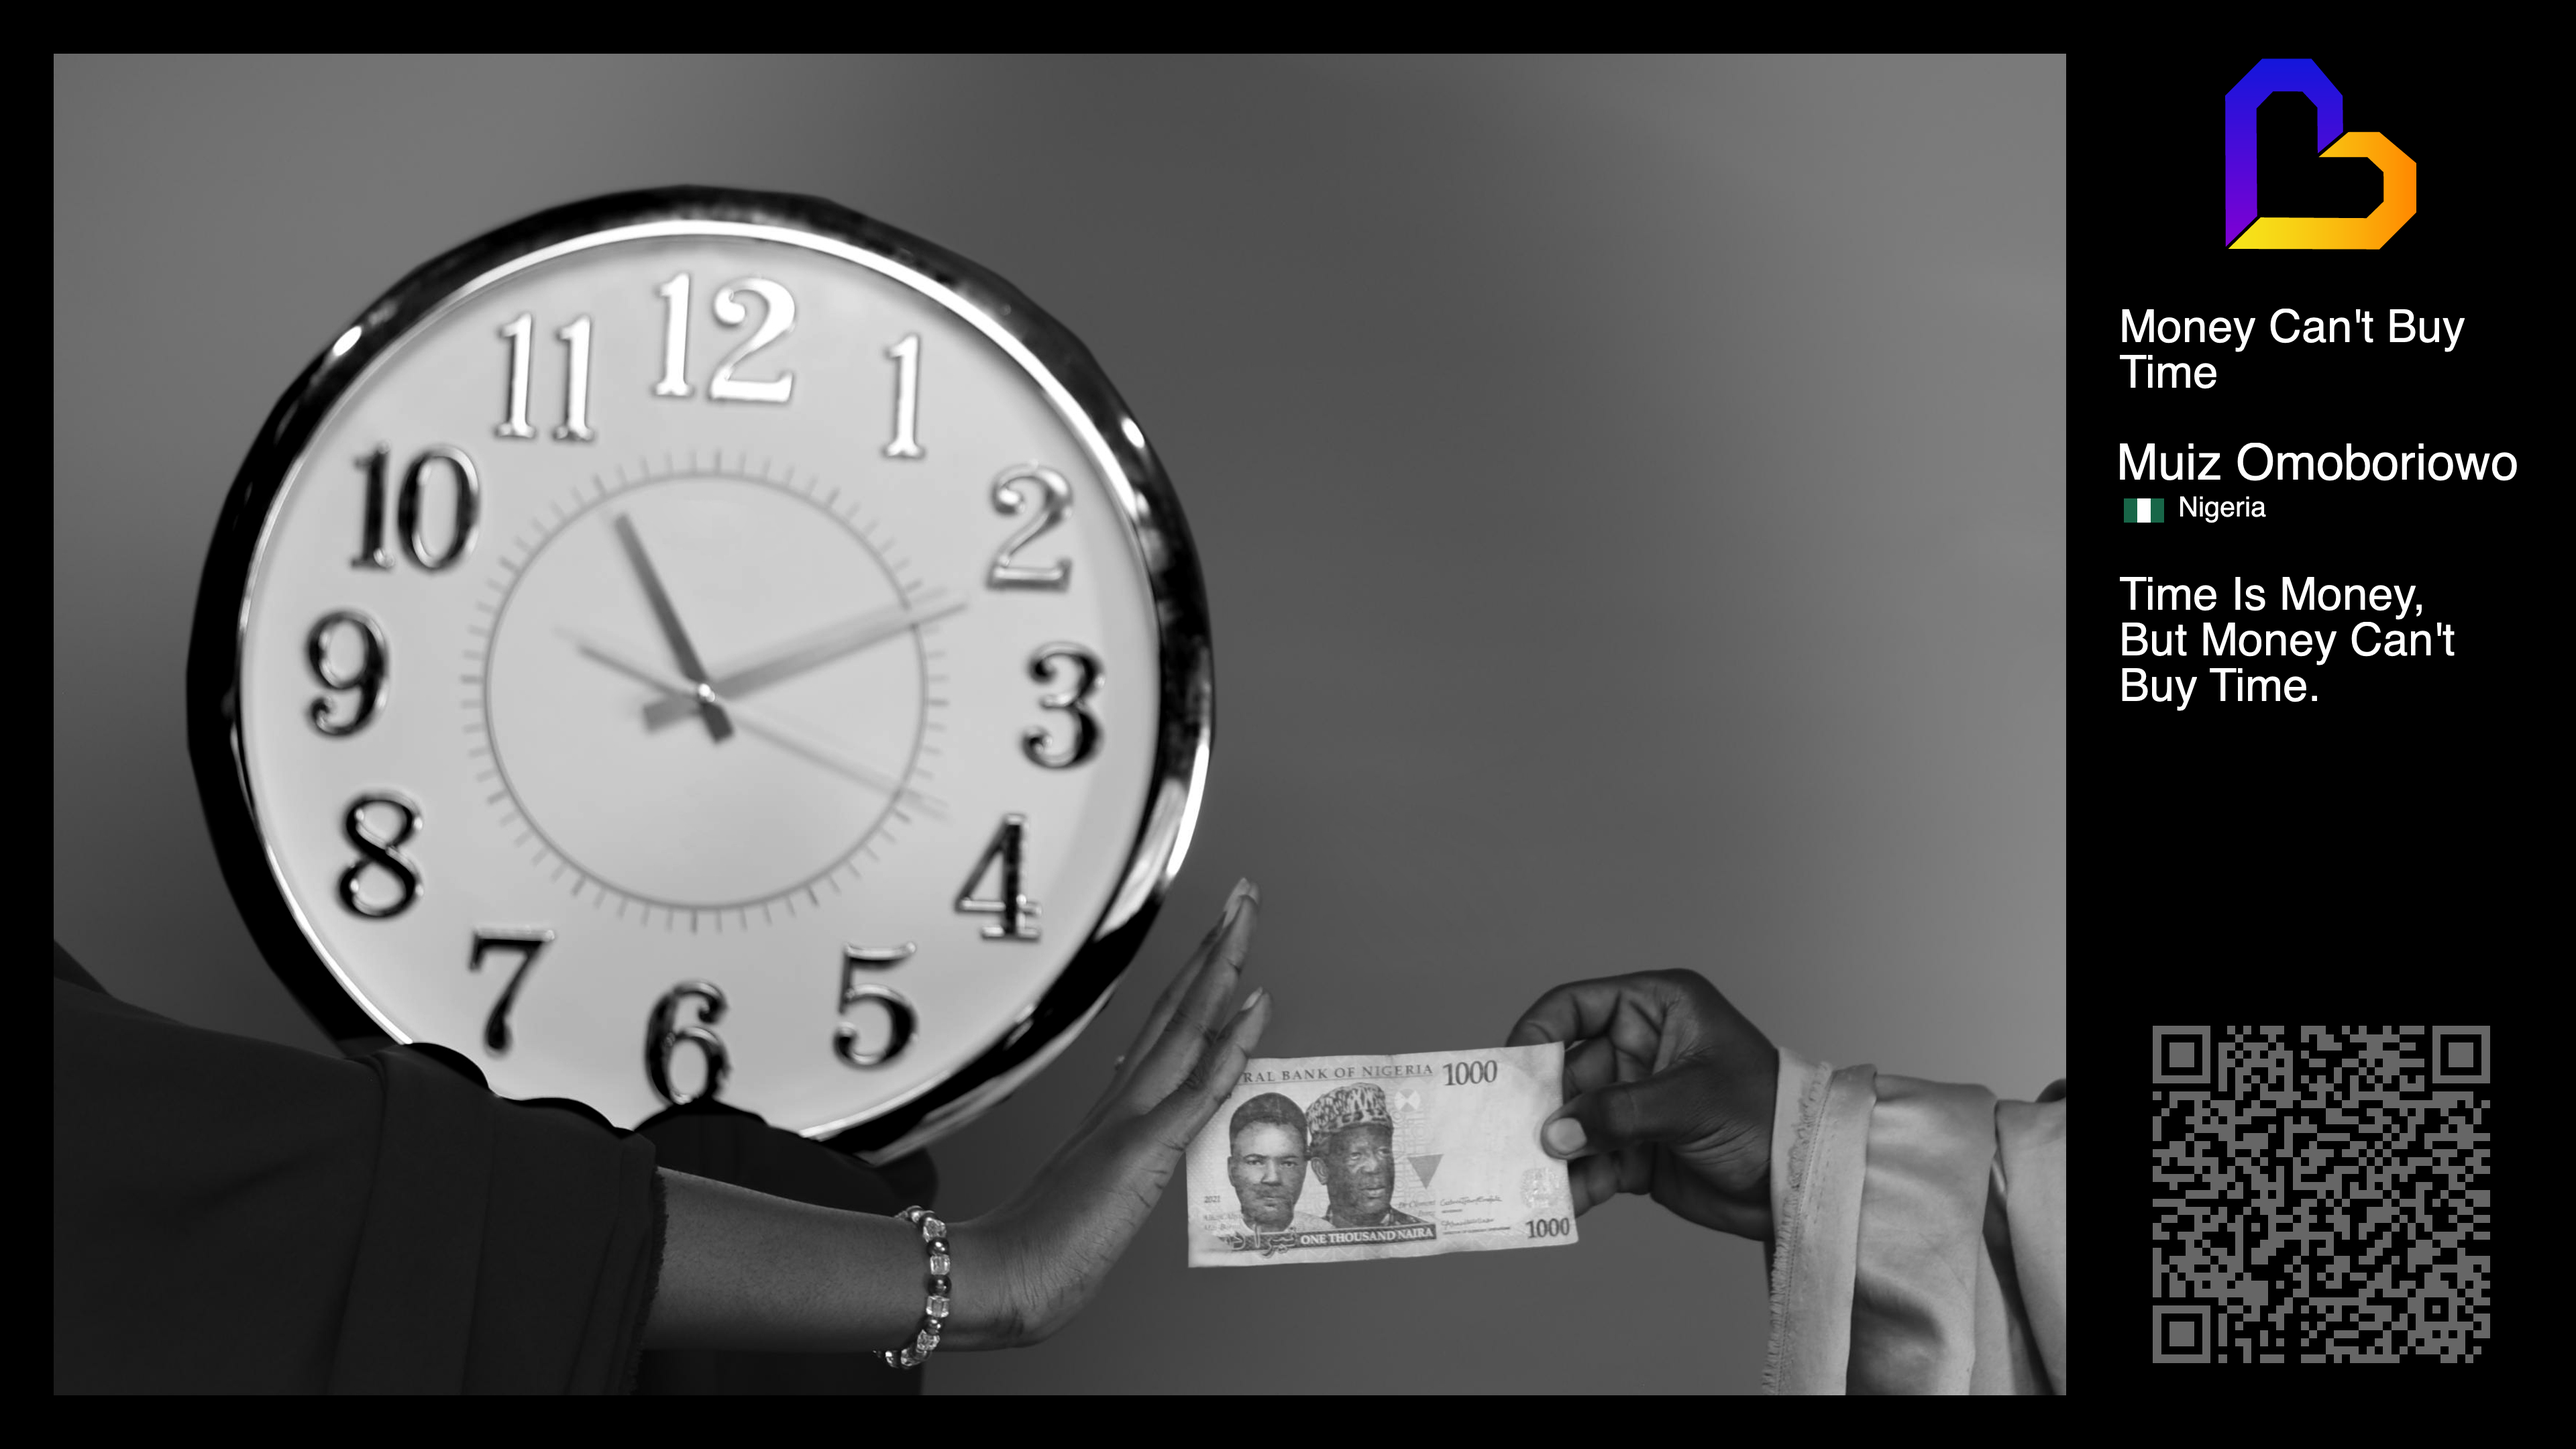
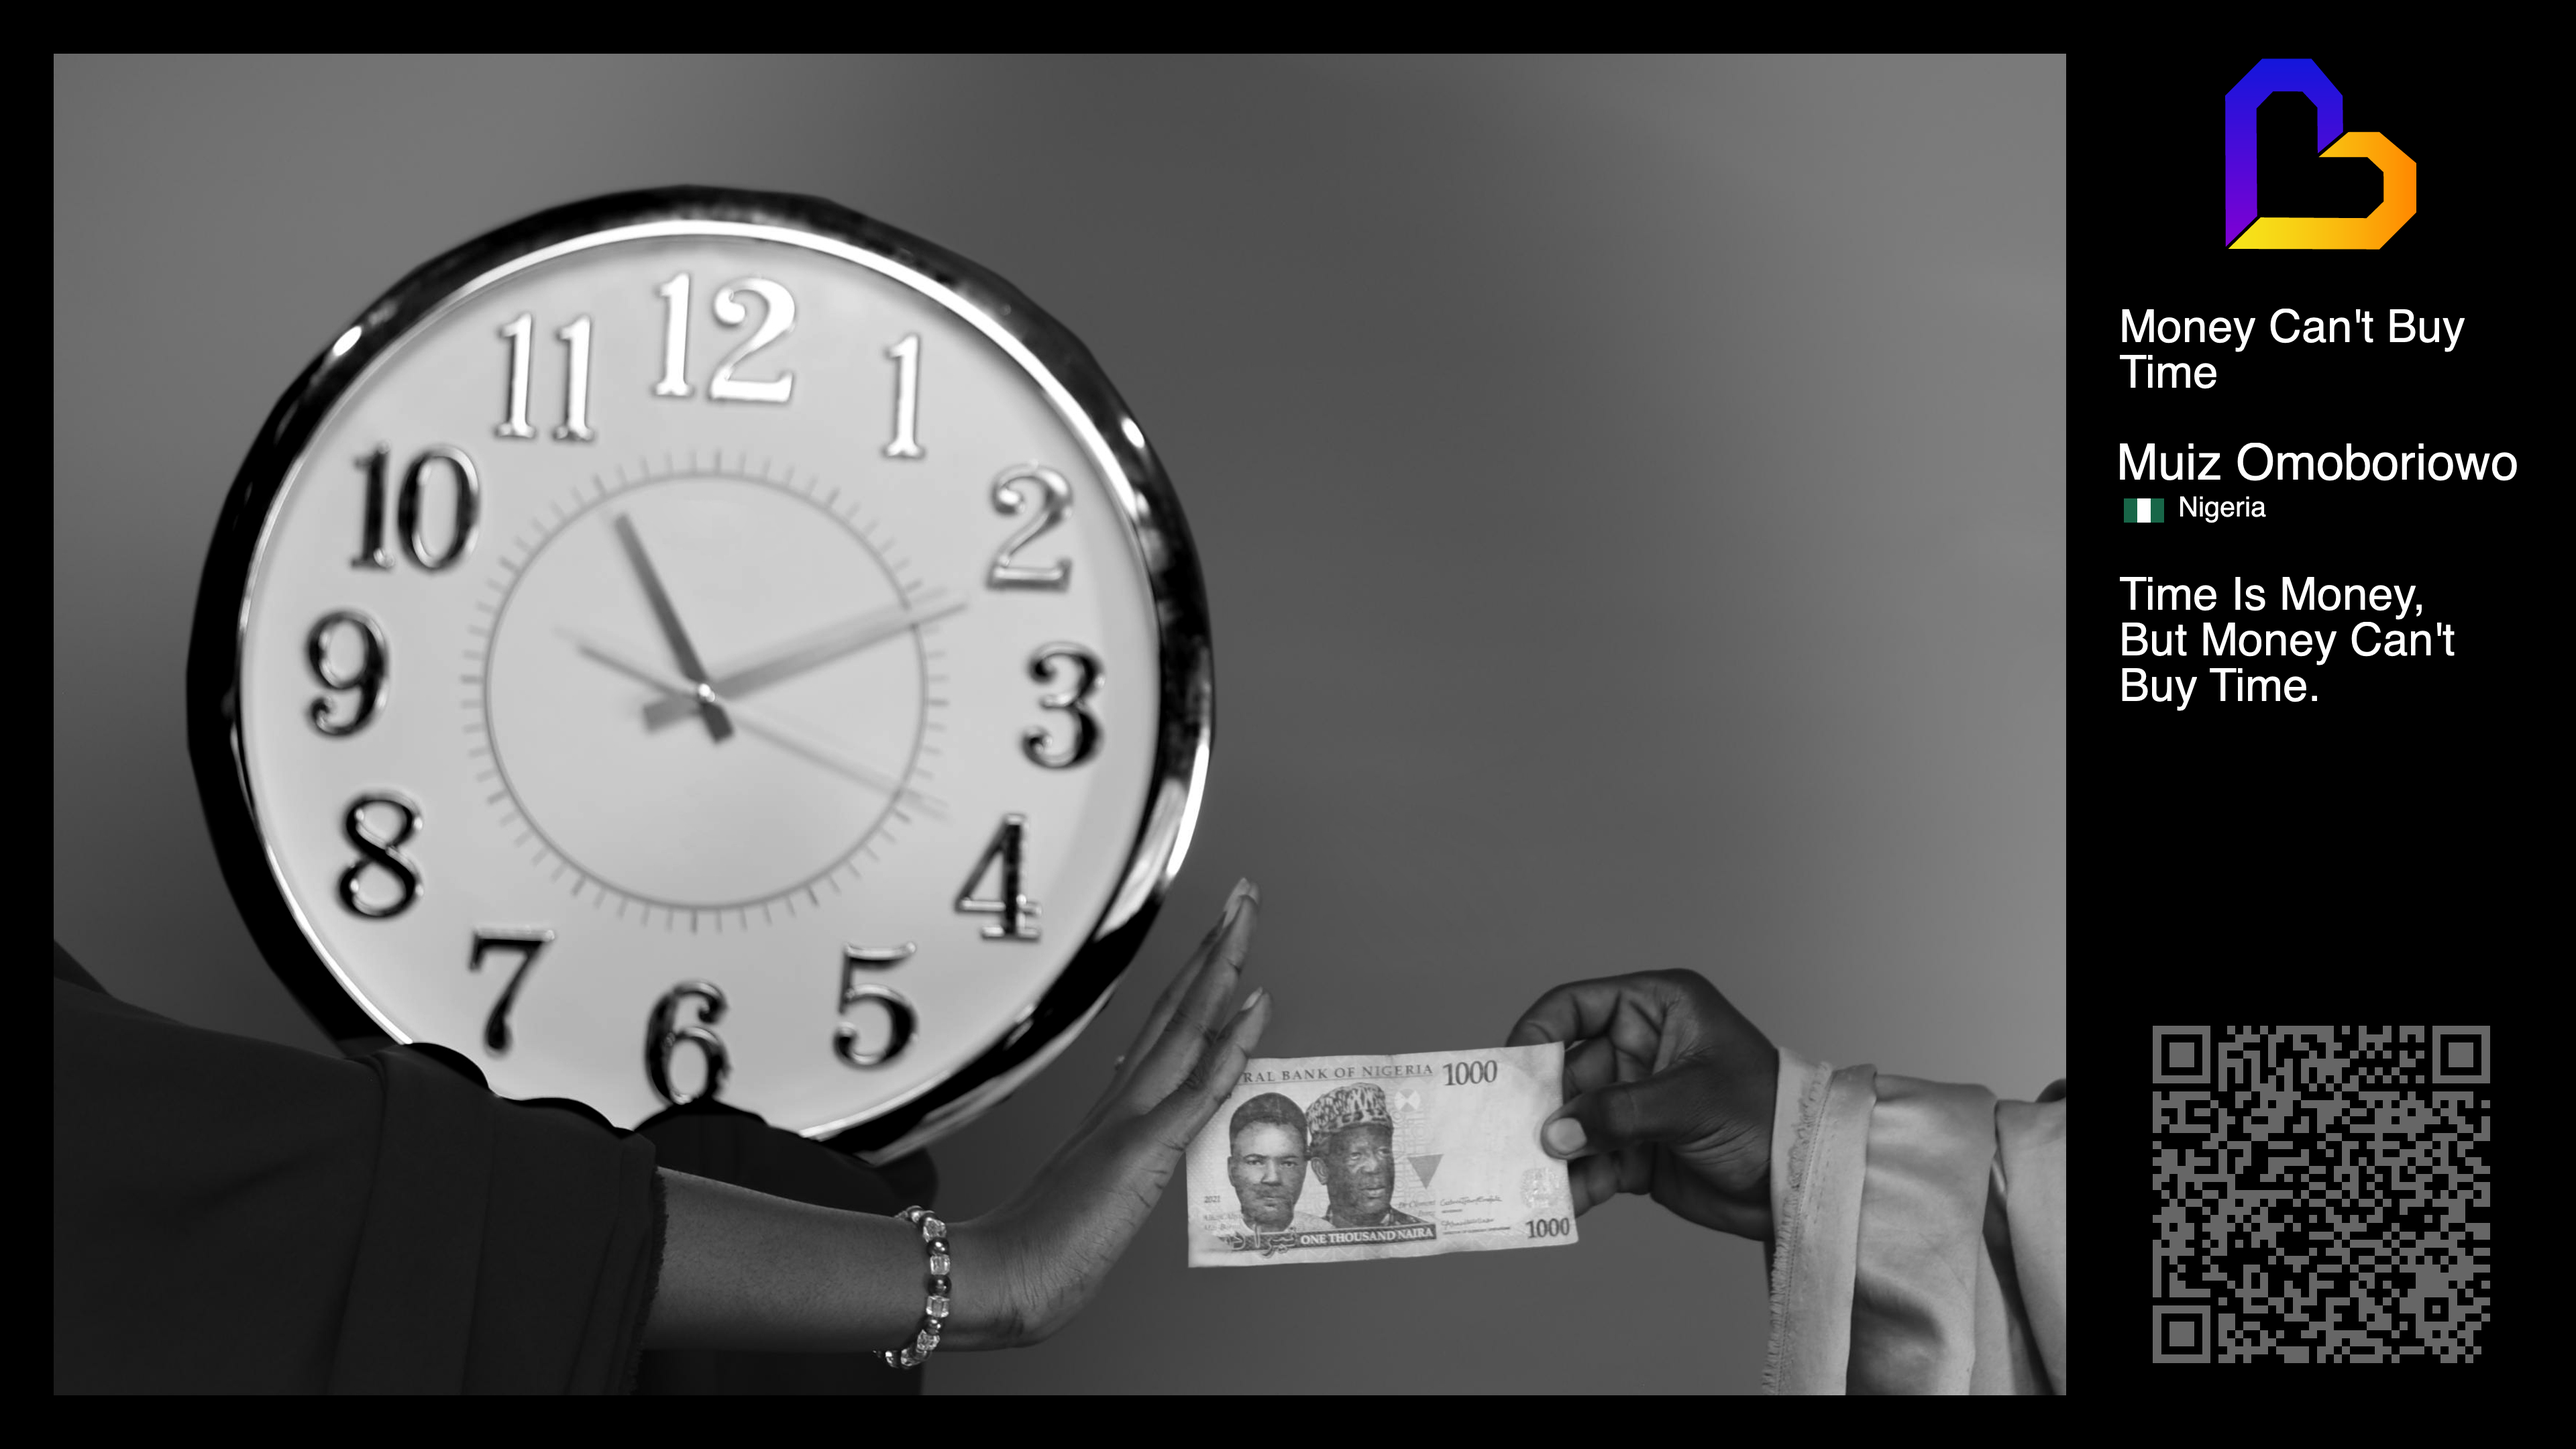
Update domain

Changed region(s): [[0.8125, 0.7134, 0.9688, 0.9616]]

diff --git a/src/assetgen.js b/src/assetgen.js
@@ -9,7 +9,7 @@ const UHD_HEIGHT = 2160;
 
 const GUTTER = 600;
 const MARGIN = 80;
-const WEB_URL = 'https://nftydreams.github.io/nfty-viewmatic';
+const WEB_URL = 'https://gallery.nftydreams.com';
 
 class AssetGen {
 
